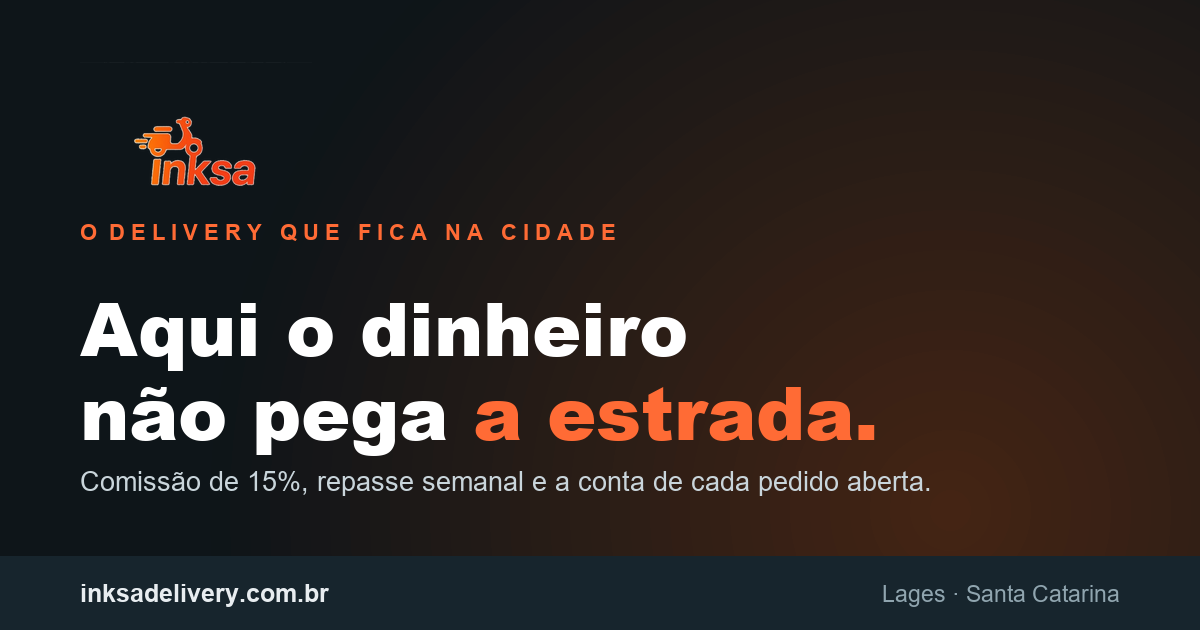
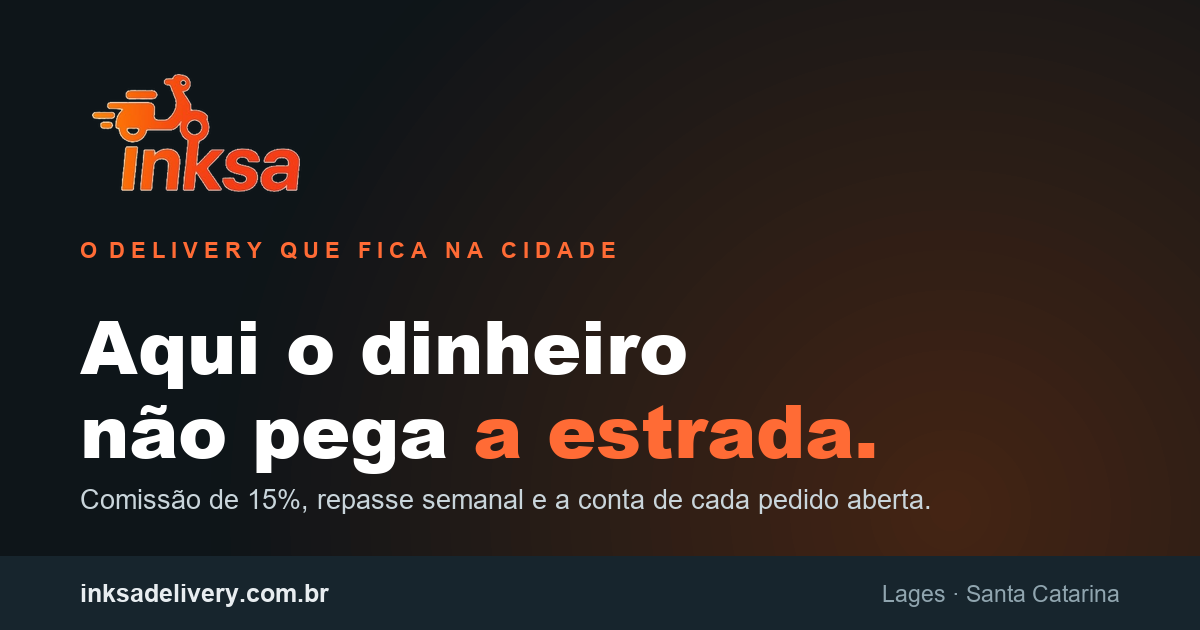
Site com o mesmo laranja dos apps, e a marca corrigida
O laranja do site era #DD5209 e o dos apps #F97316 — o mesmo produto com
duas caras. Agora e um so: #F97316, que e a cor medida nos pixels solidos
do proprio logo (~#F9600C).

⚠ DUAS VARIAVEIS, UMA COR SO. Sobre branco #F97316 tem contraste 2,80,
abaixo do minimo ate pra texto grande (3,0) — nao da pra usar em rotulo de
0,73rem. Entao:
    --brasa        #F97316  area: preenchimento, borda, faixa, acento
    --brasa-texto  #C2410C  a mesma, escurecida pra TEXTO sobre claro
Nao e um segundo laranja: e a mesma familia, um passo mais escuro. Medido
depois: rotulo, link e seta foram de 3,97 pra 5,18 — o site ficou MAIS
legivel que antes, nao menos. Trocadas 12 propriedades `color`; fundo,
borda, outline e accent-color continuam na cor da marca.

⚠ SECAO ESCURA. `.escura` e escura mesmo no tema claro, e o --brasa-texto
la seria escuro sobre escuro. Em vez de sobrescrever cor a cor, a classe
redefine o proprio token (--brasa-texto: var(--brasa-viva)) — vale pra
qualquer texto que entre ali depois. Medido: 6,50 de contraste.
No tema escuro global o token tambem vira claro (#FF9A68, 8,84).

MARCA. O site usava outro arquivo de logo — transparente, mas com
enquadramento pior que o dos apps: margem de 100px em cima e ZERO embaixo,
o desenho colado na base. Passou a usar a mesma inksa-marca.png dos quatro
apps, com as dimensoes declaradas corrigidas (365x224, era 420x225) pra o
navegador reservar a proporcao certa. O arquivo antigo ficou orfao e saiu.
[…]

Changed region(s): [[0.0617, 0.4825, 0.7708, 0.8143], [0.0617, 0.3317, 0.5242, 0.4222], [0.0617, 0.1206, 0.2467, 0.3016]]

diff --git a/index.html b/index.html
@@ -19,7 +19,7 @@
 <meta property="og:image:height" content="630">
 <meta property="og:image:alt" content="Inksa Delivery — Aqui o dinheiro não pega a estrada.">
 <meta name="twitter:card" content="summary_large_image">
-<meta name="theme-color" content="#DD5209">
+<meta name="theme-color" content="#F97316">
 <link rel="canonical" href="https://www.inksadelivery.com.br/">
 <link rel="icon" href="/assets/favicon.svg" type="image/svg+xml">
 <link rel="apple-touch-icon" href="/assets/apple-touch-icon.png">
@@ -35,10 +35,22 @@
     --fundo-3:   #EFF5F7;
     --tinta:     #0F1A21;
     --musgo:     #55707C;
-    --brasa:     #DD5209;
-    --brasa-viva:#FF6B35;
-    --brasa-esc: #A63C04;
-    --brasa-veu: #FFF1E8;
+    /* ── O LARANJA DA MARCA ────────────────────────────────────────────────
+       #F97316 é a cor do LOGO — medida nos pixels sólidos do próprio arquivo
+       (~#F9600C) e igual ao laranja que os quatro apps usam. Até 10/09/2026
+       aqui era #DD5209, visivelmente mais escuro: o site e os apps não pareciam
+       o mesmo produto.
+
+       ⚠ POR QUE EXISTEM DUAS. Sobre branco, #F97316 tem contraste 2,80 — abaixo
+       do mínimo até pra texto grande (3,0), quanto mais pra rótulo de 0,73rem.
+       Então a cor da marca fica no que é ÁREA (preenchimento, borda, faixa) e o
+       texto usa --brasa-texto, um passo mais escuro da MESMA família (5,18 —
+       passa em tudo). É a mesma cor pro olho e legível pra quem lê. */
+    --brasa:      #F97316;   /* marca: preenchimento, borda, acento */
+    --brasa-texto:#C2410C;   /* a mesma, escurecida pra TEXTO sobre claro */
+    --brasa-viva: #FF6B35;
+    --brasa-esc:  #C2410C;   /* hover de preenchimento */
+    --brasa-veu:  #FFF1E8;
     --breu:      #0E1519;
     --breu-alt:  #17252D;
     --neve:      #E8EDF0;
@@ -56,13 +68,15 @@
     :root:not([data-theme="light"]) {
       --fundo: #0E1519; --fundo-2: #131F26; --fundo-3: #17252D;
       --tinta: #E8EDF0; --musgo: #90A5AF; --linha: rgba(144,165,175,.2);
-      --brasa: #FF7A3D; --brasa-esc: #FF9A68; --brasa-veu: #2A150C;
+      --brasa: #FF7A3D; --brasa-texto: #FF9A68; --brasa-esc: #FF9A68;
+      --brasa-veu: #2A150C;
     }
   }
   :root[data-theme="dark"] {
     --fundo: #0E1519; --fundo-2: #131F26; --fundo-3: #17252D;
     --tinta: #E8EDF0; --musgo: #90A5AF; --linha: rgba(144,165,175,.2);
-    --brasa: #FF7A3D; --brasa-esc: #FF9A68; --brasa-veu: #2A150C;
+    --brasa: #FF7A3D; --brasa-texto: #FF9A68; --brasa-esc: #FF9A68;
+      --brasa-veu: #2A150C;
   }
 
   * { box-sizing: border-box; }
@@ -72,7 +86,11 @@
   .faixa { padding: 5rem 0; }
   .cinza { background: var(--fundo-2); }
   .creme { background: var(--brasa-veu); }
-  .escura { background: var(--breu); color: var(--neve); }
+  /* ⚠ Seção escura DENTRO da página clara: aqui o laranja de texto tem que ser
+     o CLARO. O --brasa-texto padrão é o escurecido (feito pra ler sobre branco)
+     e sumiria neste fundo. Redefinir o token vale pra qualquer texto que venha
+     a entrar aqui depois, sem precisar lembrar de sobrescrever cor a cor. */
+  .escura { background: var(--breu); color: var(--neve); --brasa-texto: var(--brasa-viva); }
   .escura .apagado { color: #93A6B0; }
   .escura .cartao { background: var(--breu-alt); border-color: rgba(144,165,175,.18); }
 
@@ -84,7 +102,7 @@
   .grande { font-size: 1.2rem; }
   .apagado { color: var(--musgo); }
   .rotulo { font-family: var(--mono); font-size: .73rem; letter-spacing: .18em;
-            text-transform: uppercase; color: var(--brasa); margin: 0 0 1rem; }
+            text-transform: uppercase; color: var(--brasa-texto); margin: 0 0 1rem; }
 
   .btn { font-weight: 600; font-size: .96rem; padding: .85rem 1.5rem; border-radius: 3px;
          text-decoration: none; display: inline-flex; align-items: center; gap: .5rem;
@@ -92,7 +110,7 @@
          transition: transform .15s ease, background .15s ease; }
   .btn-cheio { background: var(--brasa); color: #fff; }
   .btn-cheio:hover { background: var(--brasa-esc); transform: translateY(-2px); }
-  .btn-vazio { background: transparent; color: var(--brasa); }
+  .btn-vazio { background: transparent; color: var(--brasa-texto); }
   .btn-vazio:hover { background: var(--brasa-veu); transform: translateY(-2px); }
   a:focus-visible, .btn:focus-visible, button:focus-visible, input:focus-visible, summary:focus-visible
     { outline: 2px solid var(--brasa); outline-offset: 3px; }
@@ -167,7 +185,7 @@
   .perfil .txt { padding: 1.3rem; display: flex; flex-direction: column; gap: .45rem; flex: 1; }
   .perfil .txt p { font-size: .94rem; color: var(--musgo); }
   .perfil .seta { font-family: var(--mono); font-size: .78rem; letter-spacing: .1em; text-transform: uppercase;
-                  color: var(--brasa); margin-top: auto; padding-top: .7rem; }
+                  color: var(--brasa-texto); margin-top: auto; padding-top: .7rem; }
 
   .duo { display: grid; gap: 3rem; grid-template-columns: 1fr; align-items: start; }
   @media (min-width: 62rem) { .duo { grid-template-columns: 1fr 24rem; gap: 3.5rem; } }
@@ -208,12 +226,12 @@
                padding-bottom: .65rem; border-bottom: 1px solid var(--linha); }
   .linha-res b { font-family: var(--mono); font-size: 1.12rem; font-variant-numeric: tabular-nums; }
   .economia { background: var(--brasa-veu); border-left: 3px solid var(--brasa); padding: 1rem 1.2rem; margin-top: 1.1rem; }
-  .economia > b { font-family: var(--display); font-size: clamp(1.45rem, 4vw, 2rem); color: var(--brasa);
+  .economia > b { font-family: var(--display); font-size: clamp(1.45rem, 4vw, 2rem); color: var(--brasa-texto);
                   display: block; font-variant-numeric: tabular-nums; line-height: 1.1; }
   .economia span { font-size: .88rem; color: var(--musgo); }
 
   .numeros { display: grid; gap: 1.4rem; grid-template-columns: repeat(auto-fit, minmax(10rem, 1fr)); margin-top: 2.1rem; }
-  .num b { font-family: var(--display); font-size: clamp(1.8rem, 5vw, 2.7rem); color: var(--brasa);
+  .num b { font-family: var(--display); font-size: clamp(1.8rem, 5vw, 2.7rem); color: var(--brasa-texto);
            display: block; line-height: 1; font-variant-numeric: tabular-nums; }
   .num span { font-family: var(--mono); font-size: .73rem; letter-spacing: .1em; text-transform: uppercase;
               color: var(--musgo); display: block; margin-top: .5rem; }
@@ -223,7 +241,7 @@
   .cinza .cartao { background: var(--fundo); }
   .cartao p { font-size: .94rem; color: var(--musgo); margin-top: .45rem; }
   .cartao .ico { font-family: var(--mono); font-size: .72rem; letter-spacing: .12em; text-transform: uppercase;
-                 color: var(--brasa); display: block; margin-bottom: .5rem; }
+                 color: var(--brasa-texto); display: block; margin-bottom: .5rem; }
 
   /* ── clube ────────────────────────────────────────────────────────────── */
   .abas { display: flex; gap: .4rem; flex-wrap: wrap; margin-top: 2rem; }
@@ -276,7 +294,7 @@
   .atalhos button { font: 600 .78rem var(--corpo); color: var(--musgo); background: var(--fundo-2);
                     border: 1px solid var(--linha); border-radius: 999px; padding: .32rem .7rem;
                     cursor: pointer; transition: all .15s; }
-  .atalhos button:hover { border-color: var(--brasa); color: var(--brasa); }
+  .atalhos button:hover { border-color: var(--brasa); color: var(--brasa-texto); }
   .atalhos button[aria-pressed="true"] { background: var(--brasa); border-color: var(--brasa); color: #fff; }
 
   /* A ESCADA, em vez de ícones de veículo. Ícone diria QUAL; a escada diz
@@ -297,11 +315,11 @@
   .degrau i { font: 400 .8rem var(--mono); font-style: normal; color: var(--musgo);
               font-variant-numeric: tabular-nums; white-space: nowrap; }
   .degrau em { display: none; font: 600 .66rem var(--mono); font-style: normal;
-               text-transform: uppercase; letter-spacing: .09em; color: var(--brasa); }
+               text-transform: uppercase; letter-spacing: .09em; color: var(--brasa-texto); }
   .degrau[data-estado="nao"]     { opacity: .32; }   /* não leva esse peso */
   .degrau[data-estado="pode"]    { opacity: .72; }   /* leva, mas não é o que fixa o preço */
   .degrau[data-estado="preco"]   { background: var(--brasa-veu); border-color: var(--brasa); }
-  .degrau[data-estado="preco"] b  { color: var(--brasa); }
+  .degrau[data-estado="preco"] b  { color: var(--brasa-texto); }
   .degrau[data-estado="preco"] em { display: inline; }
 
   .balanca-saida { margin-top: 1.3rem; padding-top: 1.1rem; border-top: 1px solid var(--linha);
@@ -359,7 +377,7 @@
   .passo p { font-size: .93rem; color: #93A6B0; }
 
   .perfis-web { margin-top: 1.6rem; font-size: .92rem; color: var(--musgo); }
-  .perfis-web a { color: var(--brasa); font-weight: 600; text-decoration: none;
+  .perfis-web a { color: var(--brasa-texto); font-weight: 600; text-decoration: none;
                   border-bottom: 1px solid currentColor; }
   .perfis-web a:hover { color: var(--tinta); }
 
@@ -372,7 +390,7 @@
   .sem-app a:hover { border-color: #fff; }
 
   /* Contador ------------------------------------------------------------ */
-  .conta { color: var(--brasa); font-variant-numeric: tabular-nums; }
+  .conta { color: var(--brasa-texto); font-variant-numeric: tabular-nums; }
   .numeros {
     display: grid; gap: 1px; margin-top: 2.6rem;
     grid-template-columns: repeat(auto-fit, minmax(13rem, 1fr));
@@ -410,7 +428,7 @@
   }
   .numero span b { color: var(--tinta); font-weight: 700; }
   .linque {
-    color: var(--brasa); font-weight: 600; text-decoration: none;
+    color: var(--brasa-texto); font-weight: 600; text-decoration: none;
     border-bottom: 1px solid currentColor; padding-bottom: 1px;
   }
   .linque:hover { color: var(--brasa-esc); }
@@ -500,7 +518,7 @@
 
 <header class="topo">
   <div class="topo-linha">
-    <img src="/assets/0d1b52d722.png" alt="Inksa Delivery" width="420" height="225" decoding="async">
+    <img src="/assets/inksa-marca.png" alt="Inksa Delivery" width="365" height="224" decoding="async">
     <div style="display:flex;gap:.5rem;align-items:center">
       <!-- O seletor de perfil era a página inteira antes deste site e virou
            uma seção aqui. Sem um caminho no topo, quem chega pra entrar tem
@@ -518,7 +536,7 @@
   <video autoplay muted loop playsinline src="/assets/b470075c3c.mp4" aria-hidden="true"></video>
   <div class="veu"></div>
   <div class="conteudo dentro">
-    <img class="heroi-logo" src="/assets/0d1b52d722.png" alt="Inksa Delivery" width="420" height="225" decoding="async">
+    <img class="heroi-logo" src="/assets/inksa-marca.png" alt="Inksa Delivery" width="365" height="224" decoding="async">
     <span class="lema">O delivery que fica na cidade</span>
     <h1>Aqui o dinheiro<br>não pega <em>a estrada</em>.</h1>
     <p class="grande" style="margin-top:1.4rem">
@@ -627,7 +645,7 @@
       <span class="rotulo" style="margin-bottom:.8rem">O seu benefício</span>
       <div class="resultado" style="margin-top:0">
         <div class="linha-res"><span class="apagado">Comissão normal</span><b style="text-decoration:line-through;color:var(--musgo)">15%</b></div>
-        <div class="linha-res"><span class="apagado">Comissão de Fundador</span><b style="color:var(--brasa)">7,5%</b></div>
+        <div class="linha-res"><span class="apagado">Comissão de Fundador</span><b style="color:var(--brasa-texto)">7,5%</b></div>
         <div class="linha-res"><span class="apagado">Duração</span><b>6 meses</b></div>
         <div class="linha-res" style="border:none"><span class="apagado">Mensalidade, adesão, fidelidade</span><b>R$ 0</b></div>
       </div>
@@ -765,12 +783,12 @@
       <div class="calc revela">
         <label for="fat">Faturamento mensal em delivery</label>
         <div class="campo"><span>R$</span><input id="fat" type="text" inputmode="numeric" value="20.000"></div>
-        <label for="tx" style="margin-top:1.4rem">Comissão que você paga hoje: <b id="txval" style="color:var(--brasa)">25%</b></label>
+        <label for="tx" style="margin-top:1.4rem">Comissão que você paga hoje: <b id="txval" style="color:var(--brasa-texto)">25%</b></label>
         <input id="tx" type="range" min="8" max="35" step="1" value="25" aria-label="Comissão paga hoje, em porcentagem">
         <div class="resultado">
           <div class="linha-res"><span class="apagado">Você paga hoje</span><b id="hoje">R$ 5.000</b></div>
           <div class="linha-res"><span class="apagado">Na Inksa (15%)</span><b id="inksa">R$ 3.000</b></div>
-          <div class="linha-res"><span class="apagado">Como Fundador (7,5%)</span><b id="fund" style="color:var(--brasa)">R$ 1.500</b></div>
+          <div class="linha-res"><span class="apagado">Como Fundador (7,5%)</span><b id="fund" style="color:var(--brasa-texto)">R$ 1.500</b></div>
         </div>
         <div class="economia">
           <span>Economia nos 6 meses como Fundador</span>
@@ -1048,7 +1066,7 @@
   <div class="dentro">
     <div class="rodape">
       <div>
-        <img src="/assets/0d1b52d722.png" alt="Inksa Delivery" style="height:40px;width:auto;display:block;margin-bottom:.55rem" width="420" height="225" decoding="async" loading="lazy">
+        <img src="/assets/inksa-marca.png" alt="Inksa Delivery" style="height:40px;width:auto;display:block;margin-bottom:.55rem" width="365" height="224" decoding="async" loading="lazy">
         <span style="font-family:var(--mono);font-size:.69rem;letter-spacing:.16em;text-transform:uppercase;color:#7C8F98">Lages · Santa Catarina</span>
       </div>
       <div><h3>Aplicativos</h3>
@@ -1090,8 +1108,8 @@
     <g class="corpo">
       <path d="M38 22 q12 -12 24 0" stroke="#A63C04" stroke-width="6" fill="none" stroke-linecap="round"/>
       <rect x="13" y="20" width="74" height="72" rx="13" fill="#FF6B35"/>
-      <rect x="13" y="20" width="74" height="19" rx="13" fill="#DD5209"/>
-      <rect x="13" y="32" width="74" height="7" fill="#DD5209"/>
+      <rect x="13" y="20" width="74" height="19" rx="13" fill="#C2410C"/>
+      <rect x="13" y="32" width="74" height="7" fill="#C2410C"/>
       <rect x="42" y="34" width="16" height="9" rx="3" fill="#A63C04"/>
       <circle cx="36" cy="60" r="9.5" fill="#fff"/>
       <circle cx="64" cy="60" r="9.5" fill="#fff"/>

diff --git a/api.html b/api.html
@@ -5,11 +5,12 @@
 <meta name="viewport" content="width=device-width, initial-scale=1.0">
 <title>API para sistemas de loja — Inksa Delivery</title>
 <meta name="description" content="Documentação da API pública do Inksa Delivery: como um PDV ou ERP recebe os pedidos da loja, muda o status e sincroniza o cardápio.">
-<meta name="theme-color" content="#DD5209">
+<meta name="theme-color" content="#F97316">
 <link rel="icon" href="assets/logo.jpg">
 <style>
   :root {
-    --brasa: #DD5209;
+    --brasa: #F97316;      /* marca: area, borda */
+  --brasa-texto: #C2410C; /* a mesma, escurecida pra texto sobre claro */
     --brasa-veu: #FFF1E8;
     --tinta: #1C1917;
     --musgo: #6B615A;
@@ -34,11 +35,11 @@
 
   header { padding: 2.6rem 1.6rem 2rem; border-bottom: 3px solid var(--brasa); }
   header a.voltar {
-    display: inline-block; margin-bottom: 1.1rem; color: var(--brasa);
+    display: inline-block; margin-bottom: 1.1rem; color: var(--brasa-texto);
     text-decoration: none; font-size: .9rem; font-weight: 600;
   }
   header a.voltar:hover { text-decoration: underline; }
-  header h1 { font-size: clamp(1.7rem, 5vw, 2.3rem); line-height: 1.15; color: var(--brasa); }
+  header h1 { font-size: clamp(1.7rem, 5vw, 2.3rem); line-height: 1.15; color: var(--brasa-texto); }
   header p.sub { margin-top: .7rem; color: var(--musgo); font-size: 1.02rem; }
   .data { margin-top: .9rem; font-size: .82rem; color: #9A918B; }
 
@@ -51,7 +52,7 @@
   ul, ol { margin: .8rem 0 .8rem 1.3rem; }
   li { margin: .4rem 0; }
   strong { font-weight: 650; }
-  a { color: var(--brasa); }
+  a { color: var(--brasa-texto); }
 
   code {
     font-family: ui-monospace, 'SF Mono', Menlo, Consolas, monospace;

diff --git a/impostos.html b/impostos.html
@@ -5,11 +5,12 @@
 <meta name="viewport" content="width=device-width, initial-scale=1.0">
 <title>Imposto e formalização — Inksa Delivery</title>
 <meta name="description" content="O que a Inksa faz e o que não faz em relação a imposto, e o que muda entre receber como pessoa física ou como MEI.">
-<meta name="theme-color" content="#DD5209">
+<meta name="theme-color" content="#F97316">
 <link rel="icon" href="assets/logo.jpg">
 <style>
   :root {
-    --brasa: #DD5209;
+    --brasa: #F97316;      /* marca: area, borda */
+  --brasa-texto: #C2410C; /* a mesma, escurecida pra texto sobre claro */
     --brasa-veu: #FFF1E8;
     --tinta: #1C1917;
     --musgo: #6B615A;
@@ -30,10 +31,10 @@
 
   header { padding: 2.6rem 1.6rem 2rem; border-bottom: 3px solid var(--brasa); }
   header a.voltar {
-    display: inline-block; margin-bottom: 1.1rem; color: var(--brasa);
+    display: inline-block; margin-bottom: 1.1rem; color: var(--brasa-texto);
     text-decoration: none; font-size: .9rem; font-weight: 600;
   }
-  header h1 { font-size: clamp(1.7rem, 5vw, 2.3rem); line-height: 1.15; color: var(--brasa); }
+  header h1 { font-size: clamp(1.7rem, 5vw, 2.3rem); line-height: 1.15; color: var(--brasa-texto); }
   header p.sub { margin-top: .7rem; color: var(--musgo); font-size: 1.02rem; }
   .data { margin-top: .9rem; font-size: .82rem; color: #9A918B; }
 
@@ -47,7 +48,7 @@
   ul { margin: .8rem 0 .8rem 1.15rem; }
   li { margin: .45rem 0; }
   strong { font-weight: 700; }
-  a { color: var(--brasa); }
+  a { color: var(--brasa-texto); }
 
   .aviso {
     margin: 1.6rem 0; padding: 1.1rem 1.2rem; border-radius: 8px;
